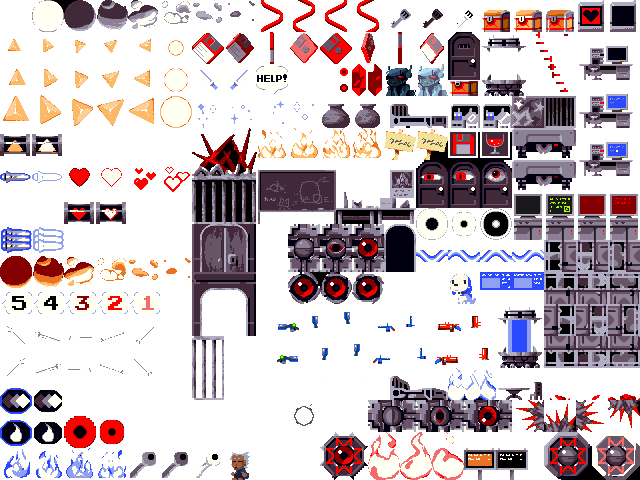
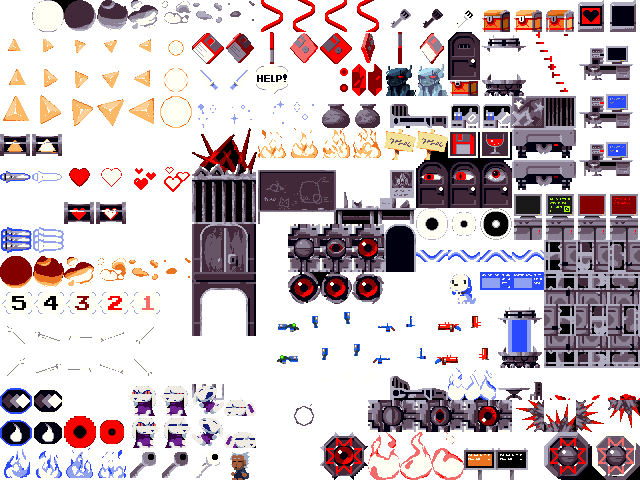
mimiga village npc

Changed region(s): [[0.1875, 0.6875, 0.4062, 0.9375]]

diff --git a/CaveStoryPlus/MimigaVillageNpc.cpp b/CaveStoryPlus/MimigaVillageNpc.cpp
@@ -1,0 +1,46 @@
+#include "pch.h"
+#include "MimigaVillageNpc.h"
+#include "DialogManager.h"
+#include "Game.h"
+
+Rectf MimigaVillageNpc::m_HidingSourceRegion{224.f, 384.f, 32.f, 32.f};
+Rectf MimigaVillageNpc::m_TalkingSourceRegion{128.f, 416.f, 32.f, 32.f};
+
+MimigaVillageNpc::MimigaVillageNpc(const Vector2f &cell) : DecorInteractable(cell, m_HidingSourceRegion)
+{
+}
+
+bool MimigaVillageNpc::OnInteract(Game &game)
+{
+    switch (m_State)
+    {
+    case State::hiding: {
+        DialogMessage &message{game.GetDialogManager()->QueueMessage(".....")};
+        message.AttachCallback([this](Game &) { StopHiding(); });
+        break;
+    }
+    case State::talking: {
+        DialogManager &manager{*game.GetDialogManager()};
+        manager.QueueMessage({"What?", "You're not an enemy?", "I thought you were one of them..."});
+        manager.QueueMessage({"My name is King.", "I'm the number one in this village.",
+                              "Though I say number one, it doesn't really mean much.",
+                              "There are only six of us left in the village."});
+        manager.QueueMessage({"Well, really..."});
+        DialogMessage &last{manager.QueueMessage({"...including Sue it's seven.", "But she's not one of us.",
+                                                  "She's just an outsider that came into our village."})};
+        last.AttachCallback([this](Game &) { m_State = State::doneTalking; });
+        break;
+    }
+    case State::doneTalking:
+    default:
+        break;
+    }
+
+    return false;
+}
+
+void MimigaVillageNpc::StopHiding()
+{
+    m_State = State::talking;
+    SetSourceRect(m_TalkingSourceRegion);
+}

diff --git a/CaveStoryPlus/MimigaVillageNpc.h b/CaveStoryPlus/MimigaVillageNpc.h
@@ -1,0 +1,25 @@
+#pragma once
+#include "DecorInteractable.h"
+
+class MimigaVillageNpc final : public DecorInteractable
+{
+  public:
+    explicit MimigaVillageNpc(const Vector2f &cell);
+
+    bool OnInteract(Game &game) override;
+
+  private:
+    static Rectf m_HidingSourceRegion;
+    static Rectf m_TalkingSourceRegion;
+
+    enum class State
+    {
+        hiding,
+        talking,
+        doneTalking
+    };
+
+    void StopHiding();
+
+    State m_State{State::hiding};
+};

diff --git a/CaveStoryPlus/GunSmithNpcInteractable.h b/CaveStoryPlus/GunSmithNpcInteractable.h
@@ -7,11 +7,5 @@ class GunSmithNpcInteractable final : public DecorInteractable
   public:
     explicit GunSmithNpcInteractable(const Vector2f &cell);
 
-    GunSmithNpcInteractable(const GunSmithNpcInteractable &) = delete;
-    GunSmithNpcInteractable &operator=(const GunSmithNpcInteractable &) = delete;
-
-    GunSmithNpcInteractable(GunSmithNpcInteractable &&) = delete;
-    GunSmithNpcInteractable &operator=(GunSmithNpcInteractable &&) = delete;
-
     bool OnInteract(Game &game) override;
 };

diff --git a/CaveStoryPlus/LevelBuilder.cpp b/CaveStoryPlus/LevelBuilder.cpp
@@ -9,6 +9,7 @@
 #include "Player.h"
 #include "PolarStar.h"
 #include "Level.h"
+#include "MimigaVillageNpc.h"
 #include "LifeCapsuleInteractable.h"
 #include "GunSmithNpcInteractable.h"
 #include "SpikeInteractable.h"
@@ -98,6 +99,10 @@ Level *LevelBuilder::BuildHermitGunsmithLevel() const
 Level *LevelBuilder::BuildMimigaVillageLevel() const
 {
     Level *pLevel{new Level("mimiga_village.png", "mimiga_village_map.txt", Vector2f(8.f, 53.f))};
+
+    pLevel->SpawnInteractable(new MimigaVillageNpc(Vector2f{10.f, 25.f}));
+
+    pLevel->SpawnInteractable(new DoorInteractable(Vector2f{1.f, 21.f}, LevelBuilder::Type::mimigaReservoir));
 
     return pLevel;
 }

diff --git a/CaveStoryPlus/Interactable.h b/CaveStoryPlus/Interactable.h
@@ -46,6 +46,7 @@ class Interactable
     Vector2f GetCenter() const;
 
   protected:
+      // TODO: do not reference count for rule of 0
     const Texture &GetSpriteSheetTexture() const
     {
         return *m_pSpriteSheetTexture;